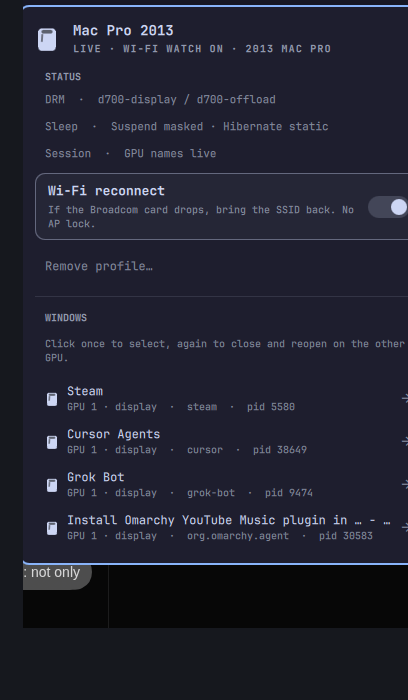
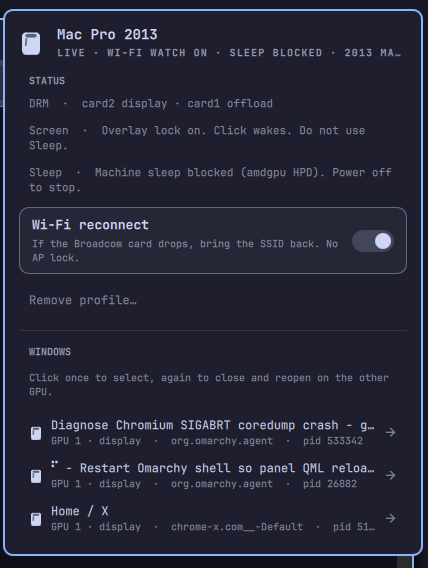
README people can actually follow; screenshot matches overlay lock.
Install, Apply, what it does, what it will not do, remove, privilege
model. Panel shot no longer claims Hibernate or d700 in AQ_DRM.

diff --git a/README.md b/README.md
@@ -1,38 +1,62 @@
 # Mac Pro 2013
 
-The one Omarchy setup for the Late 2013 Mac Pro (MacPro6,1) — the cylinder.
+![Mac Pro 2013](preview.png)
 
-Everyone else with this machine either:
+The Omarchy setup for the Late 2013 Mac Pro (MacPro6,1) — the cylinder, two FirePro D700s.
 
-```sh
+Installing the plugin only puts the cylinder on the bar. **Apply** is what actually configures the machine.
+
+## Install
+
+```bash
 omarchy plugin add https://github.com/nomdelasociete/omarchy-mac-pro-2013.git --enable
 ```
 
-then **Apply Mac Pro profile** from the bar (sudo in a terminal) —
+Click the cylinder → **Apply · sudo in a terminal**. Type your password once.
 
-or they do the DRM / sleep / Wi-Fi / keymap ritual by hand. Don’t.
-
-`omarchy plugin add` clones files only. It does **not** sudo, and it does **not** write `AQ_DRM_DEVICES`.
-
-Apply is a **user** script: it writes your session files, then `sudo install`s helpers into **root-owned** `/usr/local/libexec/nomdelasociete-macpro/` and runs **that** copy with `env -i PATH=/usr/bin:/usr/sbin`. Root never executes the plugin checkout.
+`omarchy plugin add` copies files. It does not sudo, and it does not write `AQ_DRM_DEVICES`.
 
 ## What Apply does
 
-- DRM: live `/dev/dri/cardN` for the connected FirePro, then the other card. Never PCI `by-path` (login loop). `d700-*` udev aliases are extra; Apply does **not** put them in `AQ_DRM_DEVICES`.
-- **Screen:** Omarchy screensaver 2.5 min + lock 5 min (compositor overlay). Clears `screensaver-off` and stay-awake. Validated: click → password → session back. Does **not** cut DisplayPort.
-- **Sleep:** power-menu Suspend hidden (`suspend-off`), Sleep key → lock, `systemctl suspend` / Hibernate **masked**. amdgpu DC on DCE 6.0 wedges HPD (`dal_gpio_service_open`); only a reboot recovers. Fix is a kernel patch, not this plugin. Power the machine off.
-- Never `amdgpu.dc=0` (no picture at boot).
-- Never restart Hyprland/SDDM/`gpu_recover` for a black screen.
-- BCM4360 Wi-Fi watchdog (reconnect, no BSSID lock).
-- Login greeter keymap from `/etc/vconsole.conf`.
-- RADV only. Software cursors.
-- Bar: relaunch a window on the other FirePro.
-- `d700 <app>` / Super+Alt+M (sharp vs 60 Hz on the current cable).
+- **GPUs** — puts the connected FirePro first (`/dev/dri/card2` then `card1` on a typical cylinder). Never PCI `by-path` names: those contain `:` and Hyprland login-loops.
+- **Screen** — screensaver after 2.5 minutes, lock after 5. Overlay only. Click, type your password, session is back. Does not cut DisplayPort.
+- **Sleep** — power-menu Suspend is hidden, Sleep key locks instead of sleeping, `systemctl suspend` / Hibernate are masked. The 2013 FirePro cannot wake DisplayPort; only a reboot recovers. Power the machine off.
+- **Wi-Fi** — reconnects the Broadcom BCM4360 if the radio drops. No BSSID lock.
+- **Login** — greeter keymap from `/etc/vconsole.conf`.
+- **Apps** — RADV, software cursors. From the bar, relaunch a window on the other FirePro. `d700 <app>` runs something on the offload GPU.
+
+## What it will not do
+
+- `amdgpu.dc=0` (no picture at boot)
+- Restart Hyprland, SDDM, or `gpu_recover` for a black screen
+- Make the internal Wi-Fi as good as Ethernet or a USB adapter
 
 ## Remove
 
 Bar → **Remove profile**. Plugin can stay installed.
 
-## Not this plugin
+```bash
+omarchy plugin remove nomdelasociete.macpro
+```
 
-A USB Wi-Fi adapter or Ethernet will always beat the internal BCM4360. Apply does not pretend otherwise.
+Suspend stays masked until you unmask it. Do not unmask on this hardware.
+
+## Requirements
+
+- Omarchy with its shell running
+- Late 2013 Mac Pro, product `MacPro6,1`, two AMD FirePro D700s
+- A real terminal for the one sudo (Apply does not use polkit)
+
+No extra packages. MIT.
+
+## Privilege
+
+Apply writes your session files as you. Then:
+
+```text
+sudo env -i PATH=/usr/bin:/usr/sbin /usr/bin/install -o root -g root
+```
+
+copies `libexec/apply` and `libexec/remove` into **root-owned** `/usr/local/libexec/nomdelasociete-macpro/`. Root runs **that** copy, with `env -i PATH=/usr/bin:/usr/sbin`. Root never executes the plugin checkout.
+
+The DisplayPort retrain hook is embedded in the root helper (here-doc), not copied as a live file from the checkout after becoming root.
